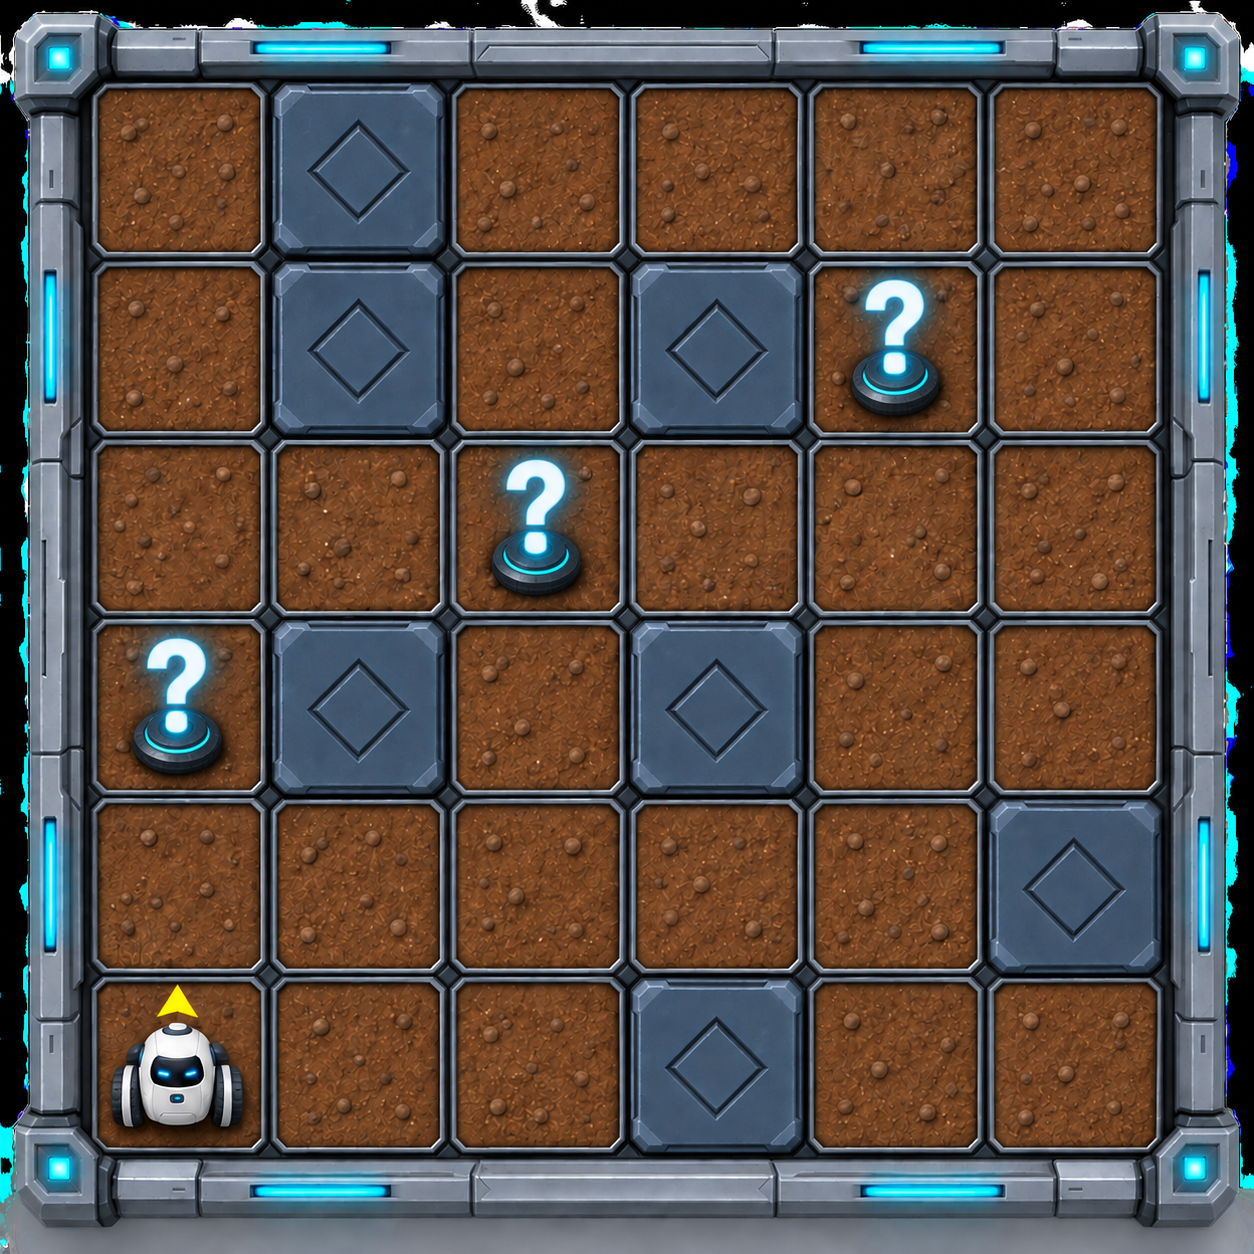
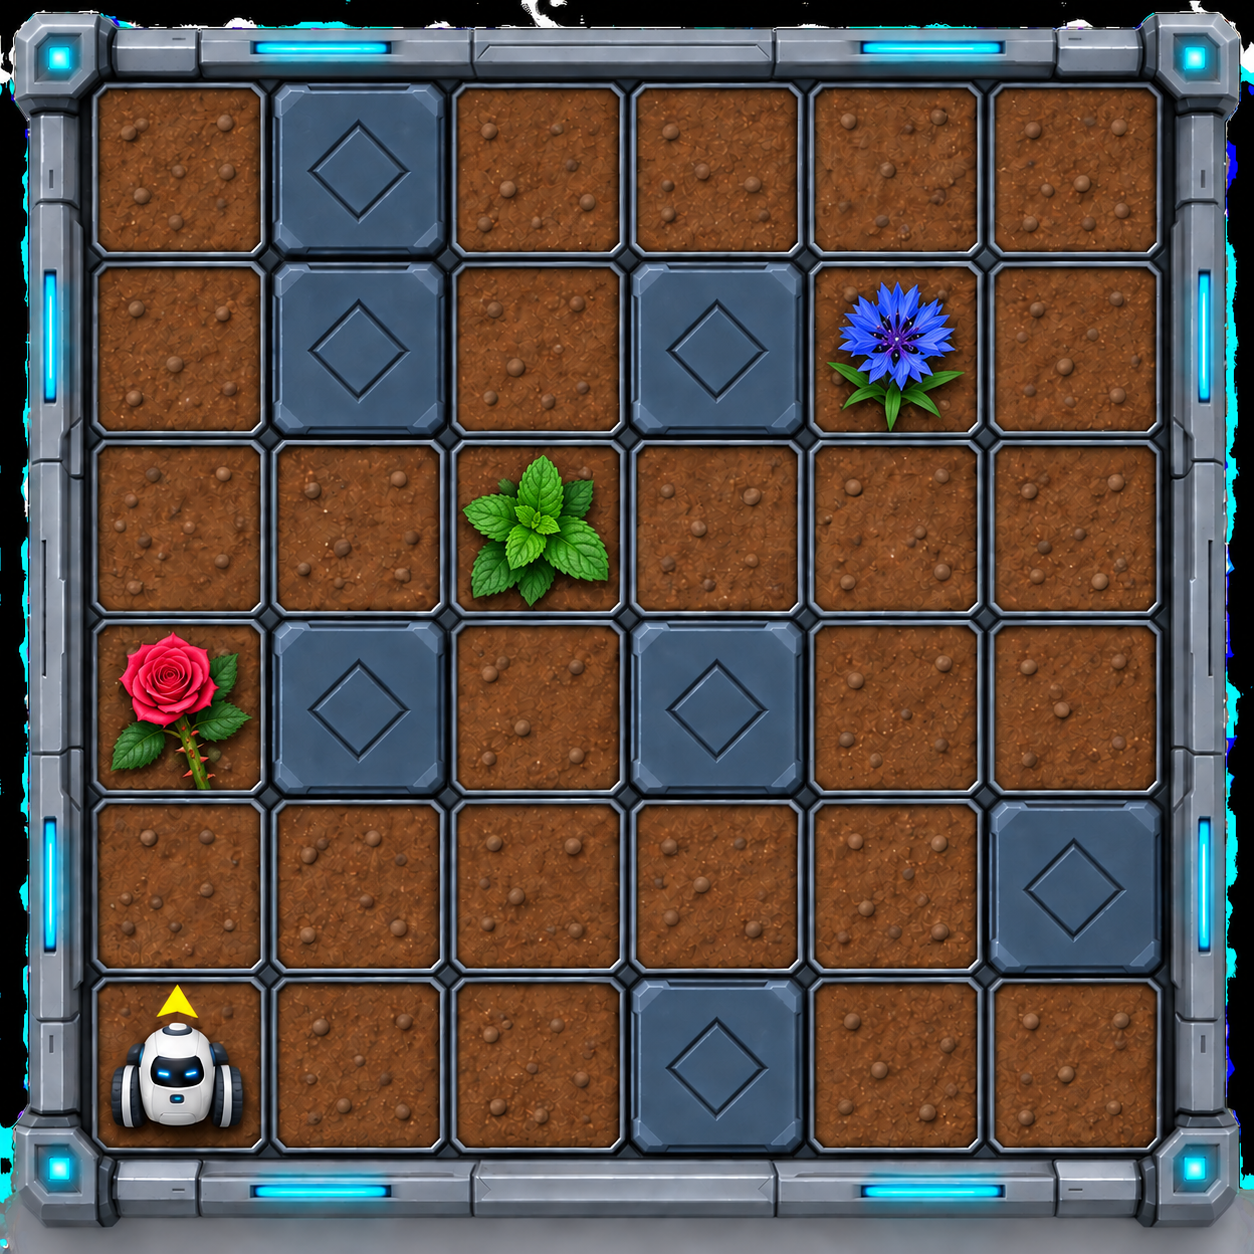
Simplify cosmic delivery to one fixed map

diff --git a/src/common/tasks.test.ts b/src/common/tasks.test.ts
@@ -184,7 +184,7 @@ describe('parseProgrammingTask', () => {
     ]);
   });
 
-  it('covers every beacon order in cosmic delivery with the correct cargo and finish', () => {
+  it('checks the fixed cosmic delivery map, cargo, and finish', () => {
     const task = parseProgrammingTask(
       JSON.parse(
         readFileSync(
@@ -214,15 +214,9 @@ describe('parseProgrammingTask', () => {
     ]);
 
     expect(task.id).toBe('gardener-cosmic-delivery');
-    expect(task.tests).toHaveLength(6);
-    expect(
-      new Set(
-        task.tests.map((test) => {
-          const input = test.input as { field: number[][] };
-          return beacons.map(([x, y]) => input.field[y][x]).join(',');
-        })
-      ).size
-    ).toBe(6);
+    expect(task.tests).toHaveLength(1);
+    const field = (task.tests[0].input as { field: number[][] }).field;
+    expect(beacons.map(([x, y]) => field[y][x])).toEqual([1, 2, 3]);
 
     for (const test of task.tests) {
       const input = test.input as {

diff --git a/src/main/tasks.test.ts b/src/main/tasks.test.ts
@@ -74,7 +74,7 @@ describe('loadTaskCatalog', () => {
     expect(catalog.diagnostics).toEqual([]);
     expect(catalog.tasks).toHaveLength(18);
     expect(catalog.tasks.every((entry) => entry.codeWord)).toBe(true);
-    expect(task?.tests).toHaveLength(6);
+    expect(task?.tests).toHaveLength(1);
     expect(task?.description).toContain('![Схема космической станции](cosmic-delivery.png)');
     expect(task?.assetBaseUrl).toContain('/gardener-cosmic-delivery/');
     expect(cartographer?.tests).toHaveLength(5);
